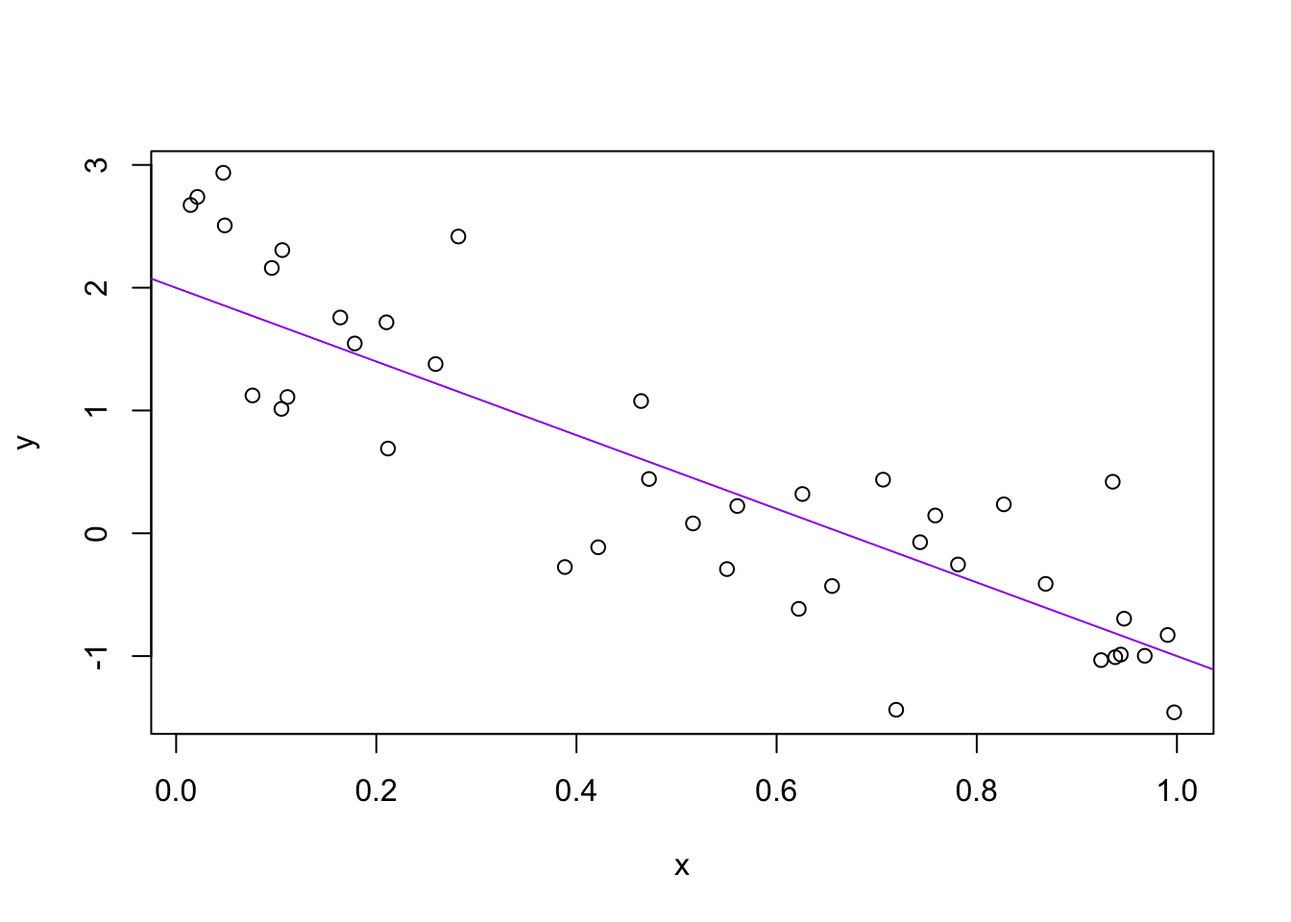
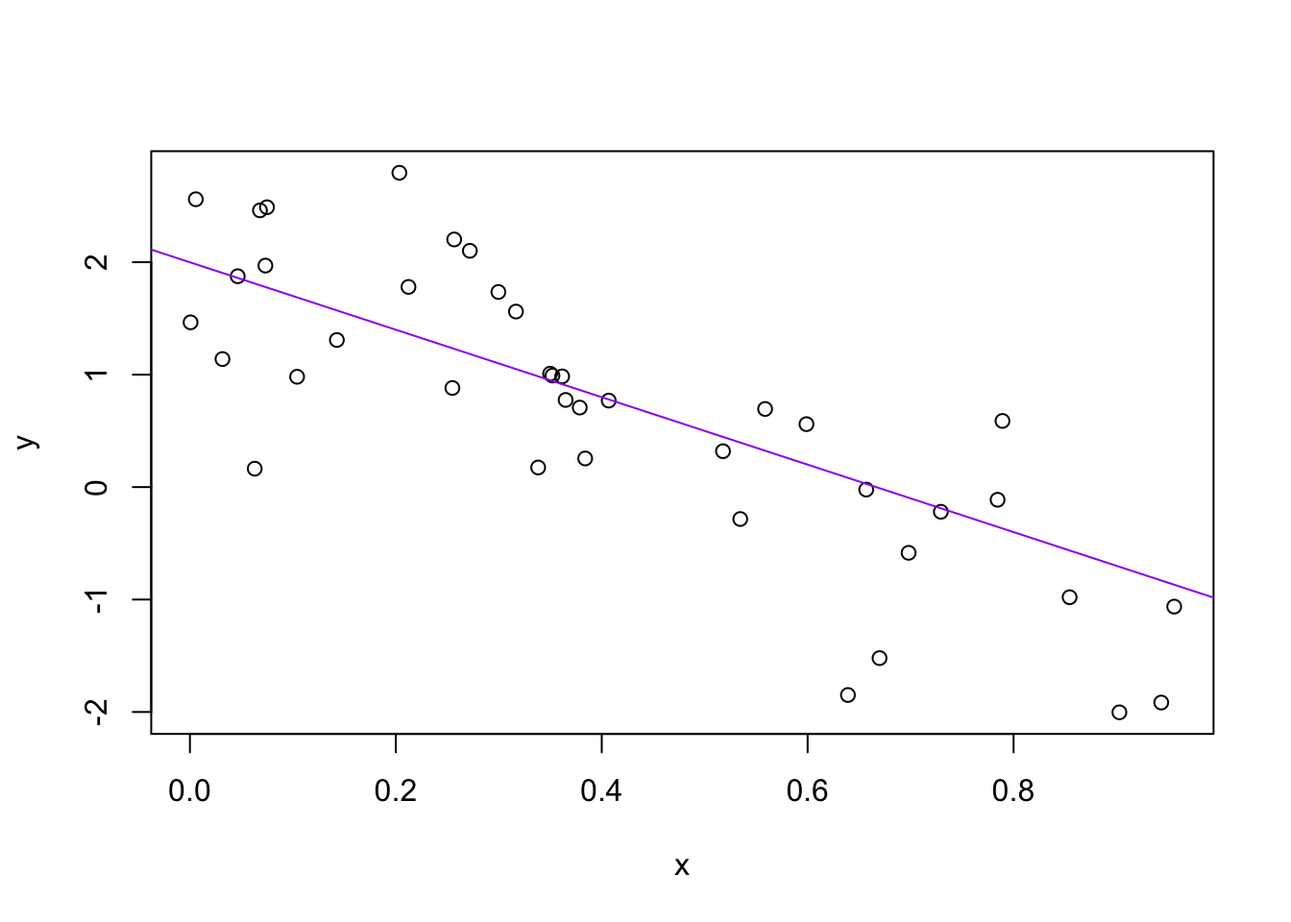
fixed P & Q problem

diff --git a/_book/basics-of-r-part-1.html b/_book/basics-of-r-part-1.html
@@ -50,8 +50,6 @@
 
 
 
-<link href="libs/font-awesome-5.1.0/css/all.css" rel="stylesheet" />
-<link href="libs/font-awesome-5.1.0/css/v4-shims.css" rel="stylesheet" />
 
 
 <style type="text/css">
@@ -312,12 +310,12 @@ code span.wa { color: #60a0b0; font-weight: bold; font-style: italic; } /* Warni
 <li>Our first operator will be the <strong>assignment operator</strong>; either <code>&lt;-</code> (a left arrow) or <code>=</code> (the equal sign).</li>
 </ul>
 <p>Let’s make our first assignment and inspect the object we’ve just created:</p>
-<div class="sourceCode" id="cb3"><pre class="sourceCode r"><code class="sourceCode r"><a class="sourceLine" id="cb3-1" data-line-number="1">my_object &lt;-<span class="st"> </span><span class="dv">5</span><span class="op">*</span><span class="dv">10</span></a>
-<a class="sourceLine" id="cb3-2" data-line-number="2">my_object</a></code></pre></div>
+<div class="sourceCode" id="cb1"><pre class="sourceCode r"><code class="sourceCode r"><a class="sourceLine" id="cb1-1" data-line-number="1">my_object &lt;-<span class="st"> </span><span class="dv">5</span><span class="op">*</span><span class="dv">10</span></a>
+<a class="sourceLine" id="cb1-2" data-line-number="2">my_object</a></code></pre></div>
 <pre><code>## [1] 50</code></pre>
 <p>In plain English, the above snippet tells us that “five times ten is assigned to my_object”.</p>
 <p>Every value you assign to an object will be in this form:</p>
-<div class="sourceCode" id="cb5"><pre class="sourceCode r"><code class="sourceCode r"><a class="sourceLine" id="cb5-1" data-line-number="1">object_name &lt;-<span class="st"> </span>value</a></code></pre></div>
+<div class="sourceCode" id="cb3"><pre class="sourceCode r"><code class="sourceCode r"><a class="sourceLine" id="cb3-1" data-line-number="1">object_name &lt;-<span class="st"> </span>value</a></code></pre></div>
 <p>By convention, we use <code>&lt;-</code> to assign variables. Don’t be lazy and use <code>=</code> to assign variables. Although it works, it will just sow confusion later. Instead, utilize RStudio’s keyboard shortcut: <code>Alt</code>+<code>-</code> (the minus sign). Notice that RStudio automagically surrounds <code>&lt;-</code> with spaces, which demonstrates a useful code formatting practice. Code is miserable to read on a good day. Give your eyes a break and use spaces.</p>
 <p>RStudio offers many handy keyboard shortcuts. The shortcut to rule them all is <code>Alt</code>+<code>Shift</code>+<code>K</code> (this brings up a keyboard shortcut reference card).</p>
 <p>Although object names are flexible, we need to follow some rules:</p>
@@ -330,67 +328,67 @@ code span.wa { color: #60a0b0; font-weight: bold; font-style: italic; } /* Warni
 other.people.use.periods
 evenOthersUseCamelCase</code></pre>
 <p>Let’s make another assignment:</p>
-<div class="sourceCode" id="cb7"><pre class="sourceCode r"><code class="sourceCode r"><a class="sourceLine" id="cb7-1" data-line-number="1">this_is_a_really_long_name &lt;-<span class="st"> </span><span class="fl">2.5</span></a></code></pre></div>
+<div class="sourceCode" id="cb5"><pre class="sourceCode r"><code class="sourceCode r"><a class="sourceLine" id="cb5-1" data-line-number="1">this_is_a_really_long_name &lt;-<span class="st"> </span><span class="fl">2.5</span></a></code></pre></div>
 <p>To inspect the object we’ve just created, try out RStudio’s auto-complete feature: type the first few characters, press <code>TAB</code>, add characters until you get what you want, then press return/enter.</p>
 </div>
 <div id="function-basics" class="section level2">
 <h2><span class="header-section-number">2.2</span> Function Basics</h2>
 <p>Functions are always followed by a pair of brackets <code>()</code>. R has a huge collection of built-in functions that can be accessed like this:</p>
-<div class="sourceCode" id="cb8"><pre class="sourceCode r"><code class="sourceCode r"><a class="sourceLine" id="cb8-1" data-line-number="1"><span class="kw">functionName</span>(<span class="dt">arg1 =</span> val1, <span class="dt">arg2 =</span> val2, ...)</a></code></pre></div>
+<div class="sourceCode" id="cb6"><pre class="sourceCode r"><code class="sourceCode r"><a class="sourceLine" id="cb6-1" data-line-number="1"><span class="kw">functionName</span>(<span class="dt">arg1 =</span> val1, <span class="dt">arg2 =</span> val2, ...)</a></code></pre></div>
 <p>Notice that we use <code>=</code> instead of <code>&lt;-</code> <em>within a function</em>. Here, <code>arg1</code> and <code>arg2</code> are called the <strong>arguments</strong> of the function <code>functionName()</code>. Likewise, <code>val1</code> and <code>val2</code> are called the <strong>parameters</strong> of <code>arg1</code> and <code>arg2</code>.</p>
 <p>Let’s try using <code>seq()</code> which makes regular sequences of numbers and, while we’re at it, demo more helpful features of RStudio.</p>
 <p>Type <code>se</code> and hit <code>TAB</code>. A pop up shows you possible completions. Select <code>seq()</code> by using the up/down arrows to select. Notice the floating tool-tip-type help that pops up to remind you of a function’s arguments.</p>
 <p>If you want even more help, press <code>F1</code> to get the full documentation in the help tab of the lower right pane. Now open the parentheses and notice the automatic addition of the closing parenthesis and the placement of cursor in the middle. Type the arguments <code>1, 10</code> and hit return/enter. RStudio also exits the parenthetical expression for you.</p>
-<div class="sourceCode" id="cb9"><pre class="sourceCode r"><code class="sourceCode r"><a class="sourceLine" id="cb9-1" data-line-number="1"><span class="kw">seq</span>(<span class="dv">1</span>, <span class="dv">10</span>)</a></code></pre></div>
+<div class="sourceCode" id="cb7"><pre class="sourceCode r"><code class="sourceCode r"><a class="sourceLine" id="cb7-1" data-line-number="1"><span class="kw">seq</span>(<span class="dv">1</span>, <span class="dv">10</span>)</a></code></pre></div>
 <pre><code>##  [1]  1  2  3  4  5  6  7  8  9 10</code></pre>
 <p>The above snippet also demonstrates something about how R resolves function arguments. You can always specify <code>name = value</code> if you’re unsure. If you don’t, R attempts to resolve by position. In the above snippet, R assumed we wanted a sequence <code>from = 1</code> that goes <code>to = 10</code>.</p>
 <p>Since we didn’t specify step size specified by the <code>by</code> argument, R uses the default value of 1 in this case. For functions I call often, I might use this resolve by position for the first argument or maybe the first two. After that, I always specify <code>name = value</code>.</p>
-<div class="sourceCode" id="cb11"><pre class="sourceCode r"><code class="sourceCode r"><a class="sourceLine" id="cb11-1" data-line-number="1"><span class="kw">seq</span>(<span class="dt">from =</span> <span class="dv">1</span>, <span class="dt">to =</span> <span class="dv">10</span>, <span class="dt">by =</span> <span class="dv">2</span>)</a></code></pre></div>
+<div class="sourceCode" id="cb9"><pre class="sourceCode r"><code class="sourceCode r"><a class="sourceLine" id="cb9-1" data-line-number="1"><span class="kw">seq</span>(<span class="dt">from =</span> <span class="dv">1</span>, <span class="dt">to =</span> <span class="dv">10</span>, <span class="dt">by =</span> <span class="dv">2</span>)</a></code></pre></div>
 <pre><code>## [1] 1 3 5 7 9</code></pre>
 <p>If you just make an assignment, you don’t see the assigned value. To show the assigned value, just call the variable.</p>
-<div class="sourceCode" id="cb13"><pre class="sourceCode r"><code class="sourceCode r"><a class="sourceLine" id="cb13-1" data-line-number="1">y &lt;-<span class="st"> </span><span class="kw">seq</span>(<span class="dv">1</span>, <span class="dv">10</span>)</a>
-<a class="sourceLine" id="cb13-2" data-line-number="2">y</a></code></pre></div>
+<div class="sourceCode" id="cb11"><pre class="sourceCode r"><code class="sourceCode r"><a class="sourceLine" id="cb11-1" data-line-number="1">y &lt;-<span class="st"> </span><span class="kw">seq</span>(<span class="dv">1</span>, <span class="dv">10</span>)</a>
+<a class="sourceLine" id="cb11-2" data-line-number="2">y</a></code></pre></div>
 <pre><code>##  [1]  1  2  3  4  5  6  7  8  9 10</code></pre>
 <p>You can shorten this common action by surrounding the assignment with parentheses.</p>
-<div class="sourceCode" id="cb15"><pre class="sourceCode r"><code class="sourceCode r"><a class="sourceLine" id="cb15-1" data-line-number="1">(y &lt;-<span class="st"> </span><span class="kw">seq</span>(<span class="dv">1</span>, <span class="dv">10</span>))</a></code></pre></div>
+<div class="sourceCode" id="cb13"><pre class="sourceCode r"><code class="sourceCode r"><a class="sourceLine" id="cb13-1" data-line-number="1">(y &lt;-<span class="st"> </span><span class="kw">seq</span>(<span class="dv">1</span>, <span class="dv">10</span>))</a></code></pre></div>
 <pre><code>##  [1]  1  2  3  4  5  6  7  8  9 10</code></pre>
 <p>Not all functions have (or require) arguments:</p>
-<div class="sourceCode" id="cb17"><pre class="sourceCode r"><code class="sourceCode r"><a class="sourceLine" id="cb17-1" data-line-number="1"><span class="kw">date</span>()</a></code></pre></div>
-<pre><code>## [1] &quot;Sun Jan 10 12:16:08 2021&quot;</code></pre>
+<div class="sourceCode" id="cb15"><pre class="sourceCode r"><code class="sourceCode r"><a class="sourceLine" id="cb15-1" data-line-number="1"><span class="kw">date</span>()</a></code></pre></div>
+<pre><code>## [1] &quot;Tue Feb  2 20:59:37 2021&quot;</code></pre>
 <p>Now look at your workspace – in the upper right pane. The workspace is where user-defined objects accumulate. You can also get a listing of these objects with commands:</p>
-<div class="sourceCode" id="cb19"><pre class="sourceCode r"><code class="sourceCode r"><a class="sourceLine" id="cb19-1" data-line-number="1"><span class="kw">objects</span>()</a></code></pre></div>
+<div class="sourceCode" id="cb17"><pre class="sourceCode r"><code class="sourceCode r"><a class="sourceLine" id="cb17-1" data-line-number="1"><span class="kw">objects</span>()</a></code></pre></div>
 <pre><code>## [1] &quot;my_object&quot;                  &quot;this_is_a_really_long_name&quot;
 ## [3] &quot;y&quot;</code></pre>
-<div class="sourceCode" id="cb21"><pre class="sourceCode r"><code class="sourceCode r"><a class="sourceLine" id="cb21-1" data-line-number="1"><span class="kw">ls</span>()</a></code></pre></div>
+<div class="sourceCode" id="cb19"><pre class="sourceCode r"><code class="sourceCode r"><a class="sourceLine" id="cb19-1" data-line-number="1"><span class="kw">ls</span>()</a></code></pre></div>
 <pre><code>## [1] &quot;my_object&quot;                  &quot;this_is_a_really_long_name&quot;
 ## [3] &quot;y&quot;</code></pre>
 <p>If you want to remove the object named <code>y</code>, you can do this:</p>
-<div class="sourceCode" id="cb23"><pre class="sourceCode r"><code class="sourceCode r"><a class="sourceLine" id="cb23-1" data-line-number="1"><span class="kw">rm</span>(y)</a></code></pre></div>
+<div class="sourceCode" id="cb21"><pre class="sourceCode r"><code class="sourceCode r"><a class="sourceLine" id="cb21-1" data-line-number="1"><span class="kw">rm</span>(y)</a></code></pre></div>
 <p>To remove everything:</p>
-<div class="sourceCode" id="cb24"><pre class="sourceCode r"><code class="sourceCode r"><a class="sourceLine" id="cb24-1" data-line-number="1"><span class="kw">rm</span>(<span class="dt">list =</span> <span class="kw">ls</span>())</a></code></pre></div>
+<div class="sourceCode" id="cb22"><pre class="sourceCode r"><code class="sourceCode r"><a class="sourceLine" id="cb22-1" data-line-number="1"><span class="kw">rm</span>(<span class="dt">list =</span> <span class="kw">ls</span>())</a></code></pre></div>
 <p>or click the broom icon in RStudio’s Environment pane.</p>
 </div>
 <div id="basic-math-operators" class="section level2">
 <h2><span class="header-section-number">2.3</span> Basic math operators</h2>
 <p>Here are some basic math operations you can perform in R (no need to memorize this list!):</p>
-<div class="sourceCode" id="cb25"><pre class="sourceCode r"><code class="sourceCode r"><a class="sourceLine" id="cb25-1" data-line-number="1"><span class="dv">1</span> <span class="op">+</span><span class="st"> </span><span class="dv">2</span>                      <span class="co"># addition</span></a>
-<a class="sourceLine" id="cb25-2" data-line-number="2"><span class="dv">5</span> <span class="op">*</span><span class="st"> </span><span class="dv">4</span>                      <span class="co"># multiplication</span></a>
-<a class="sourceLine" id="cb25-3" data-line-number="3"><span class="dv">10</span> <span class="op">/</span><span class="st"> </span><span class="dv">3</span>                     <span class="co"># division</span></a>
-<a class="sourceLine" id="cb25-4" data-line-number="4"><span class="dv">6</span> <span class="op">^</span><span class="st"> </span><span class="dv">2</span>                      <span class="co"># exponentiation</span></a>
-<a class="sourceLine" id="cb25-5" data-line-number="5"><span class="kw">sqrt</span>(<span class="dv">5</span>)                    <span class="co"># square root</span></a>
-<a class="sourceLine" id="cb25-6" data-line-number="6"><span class="kw">exp</span>(<span class="dv">1</span>)                     <span class="co"># Euler&#39;s number</span></a>
-<a class="sourceLine" id="cb25-7" data-line-number="7">pi                         <span class="co"># 3.14159...</span></a>
-<a class="sourceLine" id="cb25-8" data-line-number="8"><span class="kw">log</span>(<span class="kw">exp</span>(<span class="dv">1</span>))                <span class="co"># base e logarithm</span></a>
-<a class="sourceLine" id="cb25-9" data-line-number="9"><span class="kw">log10</span>(<span class="dv">100</span>)                 <span class="co"># base 10 logarithm</span></a>
-<a class="sourceLine" id="cb25-10" data-line-number="10"><span class="dv">5</span> <span class="op">%%</span><span class="st"> </span><span class="dv">2</span>                     <span class="co"># modular division</span></a>
-<a class="sourceLine" id="cb25-11" data-line-number="11"><span class="kw">round</span>(<span class="fl">1.5579</span>, <span class="dt">digits =</span> <span class="dv">2</span>)  <span class="co"># rounding</span></a></code></pre></div>
+<div class="sourceCode" id="cb23"><pre class="sourceCode r"><code class="sourceCode r"><a class="sourceLine" id="cb23-1" data-line-number="1"><span class="dv">1</span> <span class="op">+</span><span class="st"> </span><span class="dv">2</span>                      <span class="co"># addition</span></a>
+<a class="sourceLine" id="cb23-2" data-line-number="2"><span class="dv">5</span> <span class="op">*</span><span class="st"> </span><span class="dv">4</span>                      <span class="co"># multiplication</span></a>
+<a class="sourceLine" id="cb23-3" data-line-number="3"><span class="dv">10</span> <span class="op">/</span><span class="st"> </span><span class="dv">3</span>                     <span class="co"># division</span></a>
+<a class="sourceLine" id="cb23-4" data-line-number="4"><span class="dv">6</span> <span class="op">^</span><span class="st"> </span><span class="dv">2</span>                      <span class="co"># exponentiation</span></a>
+<a class="sourceLine" id="cb23-5" data-line-number="5"><span class="kw">sqrt</span>(<span class="dv">5</span>)                    <span class="co"># square root</span></a>
+<a class="sourceLine" id="cb23-6" data-line-number="6"><span class="kw">exp</span>(<span class="dv">1</span>)                     <span class="co"># Euler&#39;s number</span></a>
+<a class="sourceLine" id="cb23-7" data-line-number="7">pi                         <span class="co"># 3.14159...</span></a>
+<a class="sourceLine" id="cb23-8" data-line-number="8"><span class="kw">log</span>(<span class="kw">exp</span>(<span class="dv">1</span>))                <span class="co"># base e logarithm</span></a>
+<a class="sourceLine" id="cb23-9" data-line-number="9"><span class="kw">log10</span>(<span class="dv">100</span>)                 <span class="co"># base 10 logarithm</span></a>
+<a class="sourceLine" id="cb23-10" data-line-number="10"><span class="dv">5</span> <span class="op">%%</span><span class="st"> </span><span class="dv">2</span>                     <span class="co"># modular division</span></a>
+<a class="sourceLine" id="cb23-11" data-line-number="11"><span class="kw">round</span>(<span class="fl">1.5579</span>, <span class="dt">digits =</span> <span class="dv">2</span>)  <span class="co"># rounding</span></a></code></pre></div>
 </div>
 <div id="conditionals" class="section level2">
 <h2><span class="header-section-number">2.4</span> Conditionals</h2>
 <p>Conditional statements checks if some condition is true or false using <strong>logical operators</strong> (operators that return either <code>TRUE</code> or <code>FALSE</code>). For example:</p>
-<div class="sourceCode" id="cb26"><pre class="sourceCode r"><code class="sourceCode r"><a class="sourceLine" id="cb26-1" data-line-number="1"><span class="dv">20</span> <span class="op">==</span><span class="st"> </span><span class="dv">10</span><span class="op">*</span><span class="dv">2</span></a></code></pre></div>
+<div class="sourceCode" id="cb24"><pre class="sourceCode r"><code class="sourceCode r"><a class="sourceLine" id="cb24-1" data-line-number="1"><span class="dv">20</span> <span class="op">==</span><span class="st"> </span><span class="dv">10</span><span class="op">*</span><span class="dv">2</span></a></code></pre></div>
 <pre><code>## [1] TRUE</code></pre>
-<div class="sourceCode" id="cb28"><pre class="sourceCode r"><code class="sourceCode r"><a class="sourceLine" id="cb28-1" data-line-number="1"><span class="st">&quot;hello&quot;</span> <span class="op">==</span><span class="st"> &quot;goodbye&quot;</span></a></code></pre></div>
+<div class="sourceCode" id="cb26"><pre class="sourceCode r"><code class="sourceCode r"><a class="sourceLine" id="cb26-1" data-line-number="1"><span class="st">&quot;hello&quot;</span> <span class="op">==</span><span class="st"> &quot;goodbye&quot;</span></a></code></pre></div>
 <pre><code>## [1] FALSE</code></pre>
 <p>These statements return a value is of type <code>&quot;logical&quot;</code>, which is either <code>TRUE</code>(shorthand: <code>T</code>) if the condition is satisfied, or <code>FALSE</code> (shorthand: <code>F</code>) if the condition is not satisfied. One important note is that <code>TRUE</code> and <code>FALSE</code> are objects on their own, rather than the strings “true” and “false”.</p>
 <p>Conditional statements are made with a range of logical operators. So far, We’ve seen:</p>
@@ -425,13 +423,13 @@ evenOthersUseCamelCase</code></pre>
 </tbody>
 </table>
 <p>There are other logical operators, including <code>%in%</code>, which checks if a value is present in a vector of possible values. Type the following statements into the console to see their output.</p>
-<div class="sourceCode" id="cb30"><pre class="sourceCode r"><code class="sourceCode r"><a class="sourceLine" id="cb30-1" data-line-number="1"><span class="st">&quot;aang&quot;</span> <span class="op">==</span><span class="st"> &quot;aang&quot;</span></a>
-<a class="sourceLine" id="cb30-2" data-line-number="2"><span class="st">&quot;aang&quot;</span> <span class="op">!=</span><span class="st"> &quot;kora&quot;</span></a>
-<a class="sourceLine" id="cb30-3" data-line-number="3"><span class="dv">10</span> <span class="op">&lt;</span><span class="st"> </span><span class="dv">5</span></a>
-<a class="sourceLine" id="cb30-4" data-line-number="4"><span class="dv">10</span> <span class="op">&gt;=</span><span class="st"> </span><span class="dv">5</span></a>
-<a class="sourceLine" id="cb30-5" data-line-number="5"><span class="kw">is.na</span>(<span class="st">&quot;toph&quot;</span>)</a>
-<a class="sourceLine" id="cb30-6" data-line-number="6"><span class="kw">is.na</span>(<span class="ot">NA</span>)</a>
-<a class="sourceLine" id="cb30-7" data-line-number="7"><span class="st">&quot;zuko&quot;</span> <span class="op">%in%</span><span class="st"> </span><span class="kw">c</span>(<span class="st">&quot;aang&quot;</span>, <span class="st">&quot;toph&quot;</span>, <span class="st">&quot;katara&quot;</span>)</a></code></pre></div>
+<div class="sourceCode" id="cb28"><pre class="sourceCode r"><code class="sourceCode r"><a class="sourceLine" id="cb28-1" data-line-number="1"><span class="st">&quot;aang&quot;</span> <span class="op">==</span><span class="st"> &quot;aang&quot;</span></a>
+<a class="sourceLine" id="cb28-2" data-line-number="2"><span class="st">&quot;aang&quot;</span> <span class="op">!=</span><span class="st"> &quot;kora&quot;</span></a>
+<a class="sourceLine" id="cb28-3" data-line-number="3"><span class="dv">10</span> <span class="op">&lt;</span><span class="st"> </span><span class="dv">5</span></a>
+<a class="sourceLine" id="cb28-4" data-line-number="4"><span class="dv">10</span> <span class="op">&gt;=</span><span class="st"> </span><span class="dv">5</span></a>
+<a class="sourceLine" id="cb28-5" data-line-number="5"><span class="kw">is.na</span>(<span class="st">&quot;toph&quot;</span>)</a>
+<a class="sourceLine" id="cb28-6" data-line-number="6"><span class="kw">is.na</span>(<span class="ot">NA</span>)</a>
+<a class="sourceLine" id="cb28-7" data-line-number="7"><span class="st">&quot;zuko&quot;</span> <span class="op">%in%</span><span class="st"> </span><span class="kw">c</span>(<span class="st">&quot;aang&quot;</span>, <span class="st">&quot;toph&quot;</span>, <span class="st">&quot;katara&quot;</span>)</a></code></pre></div>
 <p>If you’re keen, you’ll notice in the last line that we use <code>c()</code> to group objects together. This <em>data structure</em> is called a <strong>vector</strong>. As a brief introduction, vectors <u><strong>c</strong></u>ombine objects of the same type. Don’t worry too much about the specifics of vectors, as we will cover it in much greater depth in the next chapter.</p>
 <p>We can also combine conditions using the logical and (<code>&amp;</code>) along with the logical or (<code>|</code>). The logical <code>&amp;</code> returns <code>TRUE</code> if and only if both conditions are true, and it returns <code>FALSE</code> otherwise. Below is a truth table (don’t worry about memorizing it):</p>
 <table>
@@ -440,7 +438,7 @@ evenOthersUseCamelCase</code></pre>
 <th align="center">P</th>
 <th align="center">Q</th>
 <th align="center">P &amp; Q</th>
-<th align="center">P</th>
+<th align="center">P | Q</th>
 </tr>
 </thead>
 <tbody>
@@ -471,33 +469,33 @@ evenOthersUseCamelCase</code></pre>
 </tbody>
 </table>
 <p>To contexualize this table, let’s look at the following examples:</p>
-<div class="sourceCode" id="cb31"><pre class="sourceCode r"><code class="sourceCode r"><a class="sourceLine" id="cb31-1" data-line-number="1">(<span class="dv">5</span> <span class="op">&gt;</span><span class="st"> </span><span class="dv">2</span>) <span class="op">&amp;</span><span class="st"> </span>(<span class="dv">6</span> <span class="op">&gt;=</span><span class="st"> </span><span class="dv">10</span>)</a></code></pre></div>
+<div class="sourceCode" id="cb29"><pre class="sourceCode r"><code class="sourceCode r"><a class="sourceLine" id="cb29-1" data-line-number="1">(<span class="dv">5</span> <span class="op">&gt;</span><span class="st"> </span><span class="dv">2</span>) <span class="op">&amp;</span><span class="st"> </span>(<span class="dv">6</span> <span class="op">&gt;=</span><span class="st"> </span><span class="dv">10</span>)</a></code></pre></div>
 <pre><code>## [1] FALSE</code></pre>
-<div class="sourceCode" id="cb33"><pre class="sourceCode r"><code class="sourceCode r"><a class="sourceLine" id="cb33-1" data-line-number="1">(<span class="dv">5</span> <span class="op">&gt;</span><span class="st"> </span><span class="dv">2</span>) <span class="op">|</span><span class="st"> </span>(<span class="dv">6</span> <span class="op">&gt;=</span><span class="st"> </span><span class="dv">10</span>)</a></code></pre></div>
+<div class="sourceCode" id="cb31"><pre class="sourceCode r"><code class="sourceCode r"><a class="sourceLine" id="cb31-1" data-line-number="1">(<span class="dv">5</span> <span class="op">&gt;</span><span class="st"> </span><span class="dv">2</span>) <span class="op">|</span><span class="st"> </span>(<span class="dv">6</span> <span class="op">&gt;=</span><span class="st"> </span><span class="dv">10</span>)</a></code></pre></div>
 <pre><code>## [1] TRUE</code></pre>
 <div id="if-statements" class="section level3">
 <h3><span class="header-section-number">2.4.1</span> If statements</h3>
 <p>Conditional statements generate logical values to filter inputs. <code>if</code> statements use conditional statements to control flow of a program. Below is the general form of an <code>if</code> statement:</p>
-<div class="sourceCode" id="cb35"><pre class="sourceCode r"><code class="sourceCode r"><a class="sourceLine" id="cb35-1" data-line-number="1"><span class="cf">if</span> (the conditional statement is <span class="ot">TRUE</span>) {</a>
-<a class="sourceLine" id="cb35-2" data-line-number="2">  do something</a>
-<a class="sourceLine" id="cb35-3" data-line-number="3">}</a></code></pre></div>
+<div class="sourceCode" id="cb33"><pre class="sourceCode r"><code class="sourceCode r"><a class="sourceLine" id="cb33-1" data-line-number="1"><span class="cf">if</span> (the conditional statement is <span class="ot">TRUE</span>) {</a>
+<a class="sourceLine" id="cb33-2" data-line-number="2">  do something</a>
+<a class="sourceLine" id="cb33-3" data-line-number="3">}</a></code></pre></div>
 <p>Let’s look at an example:</p>
-<div class="sourceCode" id="cb36"><pre class="sourceCode r"><code class="sourceCode r"><a class="sourceLine" id="cb36-1" data-line-number="1">x &lt;-<span class="st"> </span><span class="dv">6</span></a>
-<a class="sourceLine" id="cb36-2" data-line-number="2"><span class="cf">if</span> (x <span class="op">&gt;</span><span class="st"> </span><span class="dv">5</span>) {</a>
-<a class="sourceLine" id="cb36-3" data-line-number="3">  x &lt;-<span class="st"> </span>x<span class="op">^</span><span class="dv">2</span></a>
-<a class="sourceLine" id="cb36-4" data-line-number="4">}</a>
-<a class="sourceLine" id="cb36-5" data-line-number="5">x</a></code></pre></div>
+<div class="sourceCode" id="cb34"><pre class="sourceCode r"><code class="sourceCode r"><a class="sourceLine" id="cb34-1" data-line-number="1">x &lt;-<span class="st"> </span><span class="dv">6</span></a>
+<a class="sourceLine" id="cb34-2" data-line-number="2"><span class="cf">if</span> (x <span class="op">&gt;</span><span class="st"> </span><span class="dv">5</span>) {</a>
+<a class="sourceLine" id="cb34-3" data-line-number="3">  x &lt;-<span class="st"> </span>x<span class="op">^</span><span class="dv">2</span></a>
+<a class="sourceLine" id="cb34-4" data-line-number="4">}</a>
+<a class="sourceLine" id="cb34-5" data-line-number="5">x</a></code></pre></div>
 <pre><code>## [1] 36</code></pre>
 <ul>
 <li><code>x &gt; 5</code> is <code>TRUE</code>, so the code in the <code>if</code> runs</li>
 <li><code>x</code> is now 6^2 or 36</li>
 <li>Change <code>x</code> to 4</li>
 </ul>
-<div class="sourceCode" id="cb38"><pre class="sourceCode r"><code class="sourceCode r"><a class="sourceLine" id="cb38-1" data-line-number="1">x &lt;-<span class="st"> </span><span class="dv">4</span></a>
-<a class="sourceLine" id="cb38-2" data-line-number="2"><span class="cf">if</span> (x <span class="op">&gt;</span><span class="st"> </span><span class="dv">5</span>) {</a>
-<a class="sourceLine" id="cb38-3" data-line-number="3">  x &lt;-<span class="st"> </span>x<span class="op">^</span><span class="dv">2</span></a>
-<a class="sourceLine" id="cb38-4" data-line-number="4">}</a>
-<a class="sourceLine" id="cb38-5" data-line-number="5">x</a></code></pre></div>
+<div class="sourceCode" id="cb36"><pre class="sourceCode r"><code class="sourceCode r"><a class="sourceLine" id="cb36-1" data-line-number="1">x &lt;-<span class="st"> </span><span class="dv">4</span></a>
+<a class="sourceLine" id="cb36-2" data-line-number="2"><span class="cf">if</span> (x <span class="op">&gt;</span><span class="st"> </span><span class="dv">5</span>) {</a>
+<a class="sourceLine" id="cb36-3" data-line-number="3">  x &lt;-<span class="st"> </span>x<span class="op">^</span><span class="dv">2</span></a>
+<a class="sourceLine" id="cb36-4" data-line-number="4">}</a>
+<a class="sourceLine" id="cb36-5" data-line-number="5">x</a></code></pre></div>
 <pre><code>## [1] 4</code></pre>
 <ul>
 <li><code>x &gt; 5</code> is <code>FALSE</code>, so the code in the <code>if</code> doesn’t run</li>
@@ -506,86 +504,86 @@ evenOthersUseCamelCase</code></pre>
 influences the global environment</li>
 </ul>
 <p>Here’s a slightly more applied example:</p>
-<div class="sourceCode" id="cb40"><pre class="sourceCode r"><code class="sourceCode r"><a class="sourceLine" id="cb40-1" data-line-number="1">veg_type &lt;-<span class="st"> &quot;tree&quot;</span></a>
-<a class="sourceLine" id="cb40-2" data-line-number="2">volume &lt;-<span class="st"> </span><span class="fl">16.08</span></a>
-<a class="sourceLine" id="cb40-3" data-line-number="3"><span class="cf">if</span> (veg_type <span class="op">==</span><span class="st"> &quot;tree&quot;</span>) {</a>
-<a class="sourceLine" id="cb40-4" data-line-number="4">  mass &lt;-<span class="st"> </span><span class="fl">2.65</span> <span class="op">*</span><span class="st"> </span>volume<span class="op">^</span><span class="fl">0.9</span></a>
-<a class="sourceLine" id="cb40-5" data-line-number="5">}</a>
-<a class="sourceLine" id="cb40-6" data-line-number="6">mass</a></code></pre></div>
+<div class="sourceCode" id="cb38"><pre class="sourceCode r"><code class="sourceCode r"><a class="sourceLine" id="cb38-1" data-line-number="1">veg_type &lt;-<span class="st"> &quot;tree&quot;</span></a>
+<a class="sourceLine" id="cb38-2" data-line-number="2">volume &lt;-<span class="st"> </span><span class="fl">16.08</span></a>
+<a class="sourceLine" id="cb38-3" data-line-number="3"><span class="cf">if</span> (veg_type <span class="op">==</span><span class="st"> &quot;tree&quot;</span>) {</a>
+<a class="sourceLine" id="cb38-4" data-line-number="4">  mass &lt;-<span class="st"> </span><span class="fl">2.65</span> <span class="op">*</span><span class="st"> </span>volume<span class="op">^</span><span class="fl">0.9</span></a>
+<a class="sourceLine" id="cb38-5" data-line-number="5">}</a>
+<a class="sourceLine" id="cb38-6" data-line-number="6">mass</a></code></pre></div>
 <pre><code>## [1] 32.27775</code></pre>
 <ul>
 <li>We often want to chose one of several options.</li>
 <li>We can add more conditions and associated actions with <code>else if</code></li>
 </ul>
-<div class="sourceCode" id="cb42"><pre class="sourceCode r"><code class="sourceCode r"><a class="sourceLine" id="cb42-1" data-line-number="1">veg_type &lt;-<span class="st"> &quot;grass&quot;</span></a>
-<a class="sourceLine" id="cb42-2" data-line-number="2">volume &lt;-<span class="st"> </span><span class="fl">16.08</span></a>
-<a class="sourceLine" id="cb42-3" data-line-number="3"><span class="cf">if</span> (veg_type <span class="op">==</span><span class="st"> &quot;tree&quot;</span>) {</a>
-<a class="sourceLine" id="cb42-4" data-line-number="4">  mass &lt;-<span class="st"> </span><span class="fl">2.65</span> <span class="op">*</span><span class="st"> </span>volume<span class="op">^</span><span class="fl">0.9</span></a>
-<a class="sourceLine" id="cb42-5" data-line-number="5">} <span class="cf">else</span> <span class="cf">if</span> (veg_type <span class="op">==</span><span class="st"> &quot;grass&quot;</span>) {</a>
-<a class="sourceLine" id="cb42-6" data-line-number="6">  mass &lt;-<span class="st"> </span><span class="fl">0.65</span> <span class="op">*</span><span class="st"> </span>volume<span class="op">^</span><span class="fl">1.2</span></a>
-<a class="sourceLine" id="cb42-7" data-line-number="7">}</a>
-<a class="sourceLine" id="cb42-8" data-line-number="8">mass</a></code></pre></div>
+<div class="sourceCode" id="cb40"><pre class="sourceCode r"><code class="sourceCode r"><a class="sourceLine" id="cb40-1" data-line-number="1">veg_type &lt;-<span class="st"> &quot;grass&quot;</span></a>
+<a class="sourceLine" id="cb40-2" data-line-number="2">volume &lt;-<span class="st"> </span><span class="fl">16.08</span></a>
+<a class="sourceLine" id="cb40-3" data-line-number="3"><span class="cf">if</span> (veg_type <span class="op">==</span><span class="st"> &quot;tree&quot;</span>) {</a>
+<a class="sourceLine" id="cb40-4" data-line-number="4">  mass &lt;-<span class="st"> </span><span class="fl">2.65</span> <span class="op">*</span><span class="st"> </span>volume<span class="op">^</span><span class="fl">0.9</span></a>
+<a class="sourceLine" id="cb40-5" data-line-number="5">} <span class="cf">else</span> <span class="cf">if</span> (veg_type <span class="op">==</span><span class="st"> &quot;grass&quot;</span>) {</a>
+<a class="sourceLine" id="cb40-6" data-line-number="6">  mass &lt;-<span class="st"> </span><span class="fl">0.65</span> <span class="op">*</span><span class="st"> </span>volume<span class="op">^</span><span class="fl">1.2</span></a>
+<a class="sourceLine" id="cb40-7" data-line-number="7">}</a>
+<a class="sourceLine" id="cb40-8" data-line-number="8">mass</a></code></pre></div>
 <pre><code>## [1] 18.21615</code></pre>
 <p>Here, our script:
 1. Checks the first condition
 2. If <code>TRUE</code> runs that condition’s code and skips the rest
 3. If not it checks the next one until it runs out of conditions</p>
 <p>We can specify what to do if none of the conditions are <code>TRUE</code> by using <code>else</code> on its own</p>
-<div class="sourceCode" id="cb44"><pre class="sourceCode r"><code class="sourceCode r"><a class="sourceLine" id="cb44-1" data-line-number="1">veg_type &lt;-<span class="st"> &quot;shrub&quot;</span></a>
-<a class="sourceLine" id="cb44-2" data-line-number="2">volume &lt;-<span class="st"> </span><span class="fl">16.08</span></a>
-<a class="sourceLine" id="cb44-3" data-line-number="3"><span class="cf">if</span> (veg_type <span class="op">==</span><span class="st"> &quot;tree&quot;</span>) {</a>
-<a class="sourceLine" id="cb44-4" data-line-number="4">  mass &lt;-<span class="st"> </span><span class="fl">2.65</span> <span class="op">*</span><span class="st"> </span>volume<span class="op">^</span><span class="fl">0.9</span></a>
-<a class="sourceLine" id="cb44-5" data-line-number="5">} <span class="cf">else</span> <span class="cf">if</span> (veg_type <span class="op">==</span><span class="st"> &quot;grass&quot;</span>) {</a>
-<a class="sourceLine" id="cb44-6" data-line-number="6">  mass &lt;-<span class="st"> </span><span class="fl">0.65</span> <span class="op">*</span><span class="st"> </span>volume<span class="op">^</span><span class="fl">1.2</span></a>
-<a class="sourceLine" id="cb44-7" data-line-number="7">} <span class="cf">else</span> {</a>
-<a class="sourceLine" id="cb44-8" data-line-number="8">  mass &lt;-<span class="st"> </span><span class="ot">NA</span></a>
-<a class="sourceLine" id="cb44-9" data-line-number="9">}</a>
-<a class="sourceLine" id="cb44-10" data-line-number="10">mass</a></code></pre></div>
+<div class="sourceCode" id="cb42"><pre class="sourceCode r"><code class="sourceCode r"><a class="sourceLine" id="cb42-1" data-line-number="1">veg_type &lt;-<span class="st"> &quot;shrub&quot;</span></a>
+<a class="sourceLine" id="cb42-2" data-line-number="2">volume &lt;-<span class="st"> </span><span class="fl">16.08</span></a>
+<a class="sourceLine" id="cb42-3" data-line-number="3"><span class="cf">if</span> (veg_type <span class="op">==</span><span class="st"> &quot;tree&quot;</span>) {</a>
+<a class="sourceLine" id="cb42-4" data-line-number="4">  mass &lt;-<span class="st"> </span><span class="fl">2.65</span> <span class="op">*</span><span class="st"> </span>volume<span class="op">^</span><span class="fl">0.9</span></a>
+<a class="sourceLine" id="cb42-5" data-line-number="5">} <span class="cf">else</span> <span class="cf">if</span> (veg_type <span class="op">==</span><span class="st"> &quot;grass&quot;</span>) {</a>
+<a class="sourceLine" id="cb42-6" data-line-number="6">  mass &lt;-<span class="st"> </span><span class="fl">0.65</span> <span class="op">*</span><span class="st"> </span>volume<span class="op">^</span><span class="fl">1.2</span></a>
+<a class="sourceLine" id="cb42-7" data-line-number="7">} <span class="cf">else</span> {</a>
+<a class="sourceLine" id="cb42-8" data-line-number="8">  mass &lt;-<span class="st"> </span><span class="ot">NA</span></a>
+<a class="sourceLine" id="cb42-9" data-line-number="9">}</a>
+<a class="sourceLine" id="cb42-10" data-line-number="10">mass</a></code></pre></div>
 <pre><code>## [1] NA</code></pre>
 </div>
 <div id="multiple-ifs-vs-else-if" class="section level3">
 <h3><span class="header-section-number">2.4.2</span> Multiple “if”s vs “else if”</h3>
 <p>Multiple ifs check each conditional separately, which is very inefficient. That is, R executes code for all conditions that are <code>TRUE</code>.</p>
-<div class="sourceCode" id="cb46"><pre class="sourceCode r"><code class="sourceCode r"><a class="sourceLine" id="cb46-1" data-line-number="1">x &lt;-<span class="st"> </span><span class="dv">5</span></a>
-<a class="sourceLine" id="cb46-2" data-line-number="2"><span class="cf">if</span> (x <span class="op">&gt;</span><span class="st"> </span><span class="dv">2</span>) {</a>
-<a class="sourceLine" id="cb46-3" data-line-number="3">  x <span class="op">*</span><span class="st"> </span><span class="dv">2</span></a>
-<a class="sourceLine" id="cb46-4" data-line-number="4">}</a></code></pre></div>
+<div class="sourceCode" id="cb44"><pre class="sourceCode r"><code class="sourceCode r"><a class="sourceLine" id="cb44-1" data-line-number="1">x &lt;-<span class="st"> </span><span class="dv">5</span></a>
+<a class="sourceLine" id="cb44-2" data-line-number="2"><span class="cf">if</span> (x <span class="op">&gt;</span><span class="st"> </span><span class="dv">2</span>) {</a>
+<a class="sourceLine" id="cb44-3" data-line-number="3">  x <span class="op">*</span><span class="st"> </span><span class="dv">2</span></a>
+<a class="sourceLine" id="cb44-4" data-line-number="4">}</a></code></pre></div>
 <pre><code>## [1] 10</code></pre>
-<div class="sourceCode" id="cb48"><pre class="sourceCode r"><code class="sourceCode r"><a class="sourceLine" id="cb48-1" data-line-number="1"><span class="cf">if</span> (x <span class="op">&gt;</span><span class="st"> </span><span class="dv">4</span>) {</a>
-<a class="sourceLine" id="cb48-2" data-line-number="2">  x <span class="op">*</span><span class="st"> </span><span class="dv">4</span></a>
-<a class="sourceLine" id="cb48-3" data-line-number="3">}</a></code></pre></div>
+<div class="sourceCode" id="cb46"><pre class="sourceCode r"><code class="sourceCode r"><a class="sourceLine" id="cb46-1" data-line-number="1"><span class="cf">if</span> (x <span class="op">&gt;</span><span class="st"> </span><span class="dv">4</span>) {</a>
+<a class="sourceLine" id="cb46-2" data-line-number="2">  x <span class="op">*</span><span class="st"> </span><span class="dv">4</span></a>
+<a class="sourceLine" id="cb46-3" data-line-number="3">}</a></code></pre></div>
 <pre><code>## [1] 20</code></pre>
 <p><code>else if</code> checks each condition sequentially, and ONLY executes code for the first condition that is <code>TRUE</code></p>
-<div class="sourceCode" id="cb50"><pre class="sourceCode r"><code class="sourceCode r"><a class="sourceLine" id="cb50-1" data-line-number="1">x &lt;-<span class="st"> </span><span class="dv">5</span></a>
-<a class="sourceLine" id="cb50-2" data-line-number="2"><span class="cf">if</span> (x <span class="op">&gt;</span><span class="st"> </span><span class="dv">2</span>) {</a>
-<a class="sourceLine" id="cb50-3" data-line-number="3">  x <span class="op">*</span><span class="st"> </span><span class="dv">2</span></a>
-<a class="sourceLine" id="cb50-4" data-line-number="4">} <span class="cf">else</span> <span class="cf">if</span> (x <span class="op">&gt;</span><span class="st"> </span><span class="dv">4</span>) {</a>
-<a class="sourceLine" id="cb50-5" data-line-number="5">  x <span class="op">*</span><span class="st"> </span><span class="dv">4</span></a>
-<a class="sourceLine" id="cb50-6" data-line-number="6">}</a></code></pre></div>
+<div class="sourceCode" id="cb48"><pre class="sourceCode r"><code class="sourceCode r"><a class="sourceLine" id="cb48-1" data-line-number="1">x &lt;-<span class="st"> </span><span class="dv">5</span></a>
+<a class="sourceLine" id="cb48-2" data-line-number="2"><span class="cf">if</span> (x <span class="op">&gt;</span><span class="st"> </span><span class="dv">2</span>) {</a>
+<a class="sourceLine" id="cb48-3" data-line-number="3">  x <span class="op">*</span><span class="st"> </span><span class="dv">2</span></a>
+<a class="sourceLine" id="cb48-4" data-line-number="4">} <span class="cf">else</span> <span class="cf">if</span> (x <span class="op">&gt;</span><span class="st"> </span><span class="dv">4</span>) {</a>
+<a class="sourceLine" id="cb48-5" data-line-number="5">  x <span class="op">*</span><span class="st"> </span><span class="dv">4</span></a>
+<a class="sourceLine" id="cb48-6" data-line-number="6">}</a></code></pre></div>
 <pre><code>## [1] 10</code></pre>
 </div>
 </div>
 <div id="working-directory" class="section level2">
 <h2><span class="header-section-number">2.5</span> Working directory</h2>
 <p>Any process running on your computer has a notion of its “working directory”. By default in R, a working directory is where R will look for files you ask it to load. It is also where any files you write to disk will go. You can explicitly check your working directory with:</p>
-<div class="sourceCode" id="cb52"><pre class="sourceCode r"><code class="sourceCode r"><a class="sourceLine" id="cb52-1" data-line-number="1"><span class="kw">getwd</span>()</a></code></pre></div>
+<div class="sourceCode" id="cb50"><pre class="sourceCode r"><code class="sourceCode r"><a class="sourceLine" id="cb50-1" data-line-number="1"><span class="kw">getwd</span>()</a></code></pre></div>
 <p>The working directory is also displayed at the top of the RStudio console. Notice that <code>getwd()</code> looks a lot like “get working directory”.</p>
 <p>As a beginning R user, it’s OK let your home directory or any other weird directory on your computer be R’s working directory. <em>Very soon</em>, I urge you to evolve to the next level, where you organize your analytical projects into directories and, when working on project A, set R’s working directory to the associated directory.</p>
 <p>In case you’re curious, you can set R’s working directory at the command line like so:</p>
-<div class="sourceCode" id="cb53"><pre class="sourceCode r"><code class="sourceCode r"><a class="sourceLine" id="cb53-1" data-line-number="1"><span class="kw">setwd</span>(<span class="st">&quot;~/myCoolProject&quot;</span>)</a></code></pre></div>
+<div class="sourceCode" id="cb51"><pre class="sourceCode r"><code class="sourceCode r"><a class="sourceLine" id="cb51-1" data-line-number="1"><span class="kw">setwd</span>(<span class="st">&quot;~/myCoolProject&quot;</span>)</a></code></pre></div>
 <p>The <code>setwd()</code> function is extremely useful for times you want to read in external data, such as a .csv file. Like <code>getwd()</code>, notice that <code>setwd()</code> looks a lot like “set working directory”.</p>
 <p>Now, let’s start a mini-project!</p>
-<div class="sourceCode" id="cb54"><pre class="sourceCode r"><code class="sourceCode r"><a class="sourceLine" id="cb54-1" data-line-number="1">a &lt;-<span class="st"> </span><span class="dv">2</span></a>
-<a class="sourceLine" id="cb54-2" data-line-number="2">b &lt;-<span class="st"> </span><span class="dv">-3</span></a>
-<a class="sourceLine" id="cb54-3" data-line-number="3">sig_sq &lt;-<span class="st"> </span><span class="fl">0.5</span></a>
-<a class="sourceLine" id="cb54-4" data-line-number="4">x &lt;-<span class="st"> </span><span class="kw">runif</span>(<span class="dv">40</span>)</a>
-<a class="sourceLine" id="cb54-5" data-line-number="5">y &lt;-<span class="st"> </span>a <span class="op">+</span><span class="st"> </span>b<span class="op">*</span>x <span class="op">+</span><span class="st"> </span><span class="kw">rnorm</span>(<span class="dv">40</span>, <span class="dt">sd =</span> <span class="kw">sqrt</span>(sig_sq))</a>
-<a class="sourceLine" id="cb54-6" data-line-number="6">(avg_x &lt;-<span class="st"> </span><span class="kw">mean</span>(x))</a></code></pre></div>
-<pre><code>## [1] 0.5064912</code></pre>
-<div class="sourceCode" id="cb56"><pre class="sourceCode r"><code class="sourceCode r"><a class="sourceLine" id="cb56-1" data-line-number="1"><span class="kw">plot</span>(x, y)</a>
-<a class="sourceLine" id="cb56-2" data-line-number="2"><span class="kw">abline</span>(a, b, <span class="dt">col =</span> <span class="st">&quot;purple&quot;</span>)</a></code></pre></div>
+<div class="sourceCode" id="cb52"><pre class="sourceCode r"><code class="sourceCode r"><a class="sourceLine" id="cb52-1" data-line-number="1">a &lt;-<span class="st"> </span><span class="dv">2</span></a>
+<a class="sourceLine" id="cb52-2" data-line-number="2">b &lt;-<span class="st"> </span><span class="dv">-3</span></a>
+<a class="sourceLine" id="cb52-3" data-line-number="3">sig_sq &lt;-<span class="st"> </span><span class="fl">0.5</span></a>
+<a class="sourceLine" id="cb52-4" data-line-number="4">x &lt;-<span class="st"> </span><span class="kw">runif</span>(<span class="dv">40</span>)</a>
+<a class="sourceLine" id="cb52-5" data-line-number="5">y &lt;-<span class="st"> </span>a <span class="op">+</span><span class="st"> </span>b<span class="op">*</span>x <span class="op">+</span><span class="st"> </span><span class="kw">rnorm</span>(<span class="dv">40</span>, <span class="dt">sd =</span> <span class="kw">sqrt</span>(sig_sq))</a>
+<a class="sourceLine" id="cb52-6" data-line-number="6">(avg_x &lt;-<span class="st"> </span><span class="kw">mean</span>(x))</a></code></pre></div>
+<pre><code>## [1] 0.404889</code></pre>
+<div class="sourceCode" id="cb54"><pre class="sourceCode r"><code class="sourceCode r"><a class="sourceLine" id="cb54-1" data-line-number="1"><span class="kw">plot</span>(x, y)</a>
+<a class="sourceLine" id="cb54-2" data-line-number="2"><span class="kw">abline</span>(a, b, <span class="dt">col =</span> <span class="st">&quot;purple&quot;</span>)</a></code></pre></div>
 <p><img src="_main_files/figure-html/toy-line-1.png" width="672" /></p>
-<div class="sourceCode" id="cb57"><pre class="sourceCode r"><code class="sourceCode r"><a class="sourceLine" id="cb57-1" data-line-number="1"><span class="kw">dev.print</span>(pdf, <span class="st">&quot;toy_line_plot.pdf&quot;</span>)</a></code></pre></div>
+<div class="sourceCode" id="cb55"><pre class="sourceCode r"><code class="sourceCode r"><a class="sourceLine" id="cb55-1" data-line-number="1"><span class="kw">dev.print</span>(pdf, <span class="st">&quot;toy_line_plot.pdf&quot;</span>)</a></code></pre></div>
 <p>Don’t worry if your graph doesn’t look exactly like the provided output—<code>rnorm()</code> generates random numbers (from a normal distribution).</p>
 <p>Imagine that our mini-project is the start of an analysis, and you’re ready to preserve the logic and code. Here’s what I want you to do:</p>
 <ol style="list-style-type: decimal">
